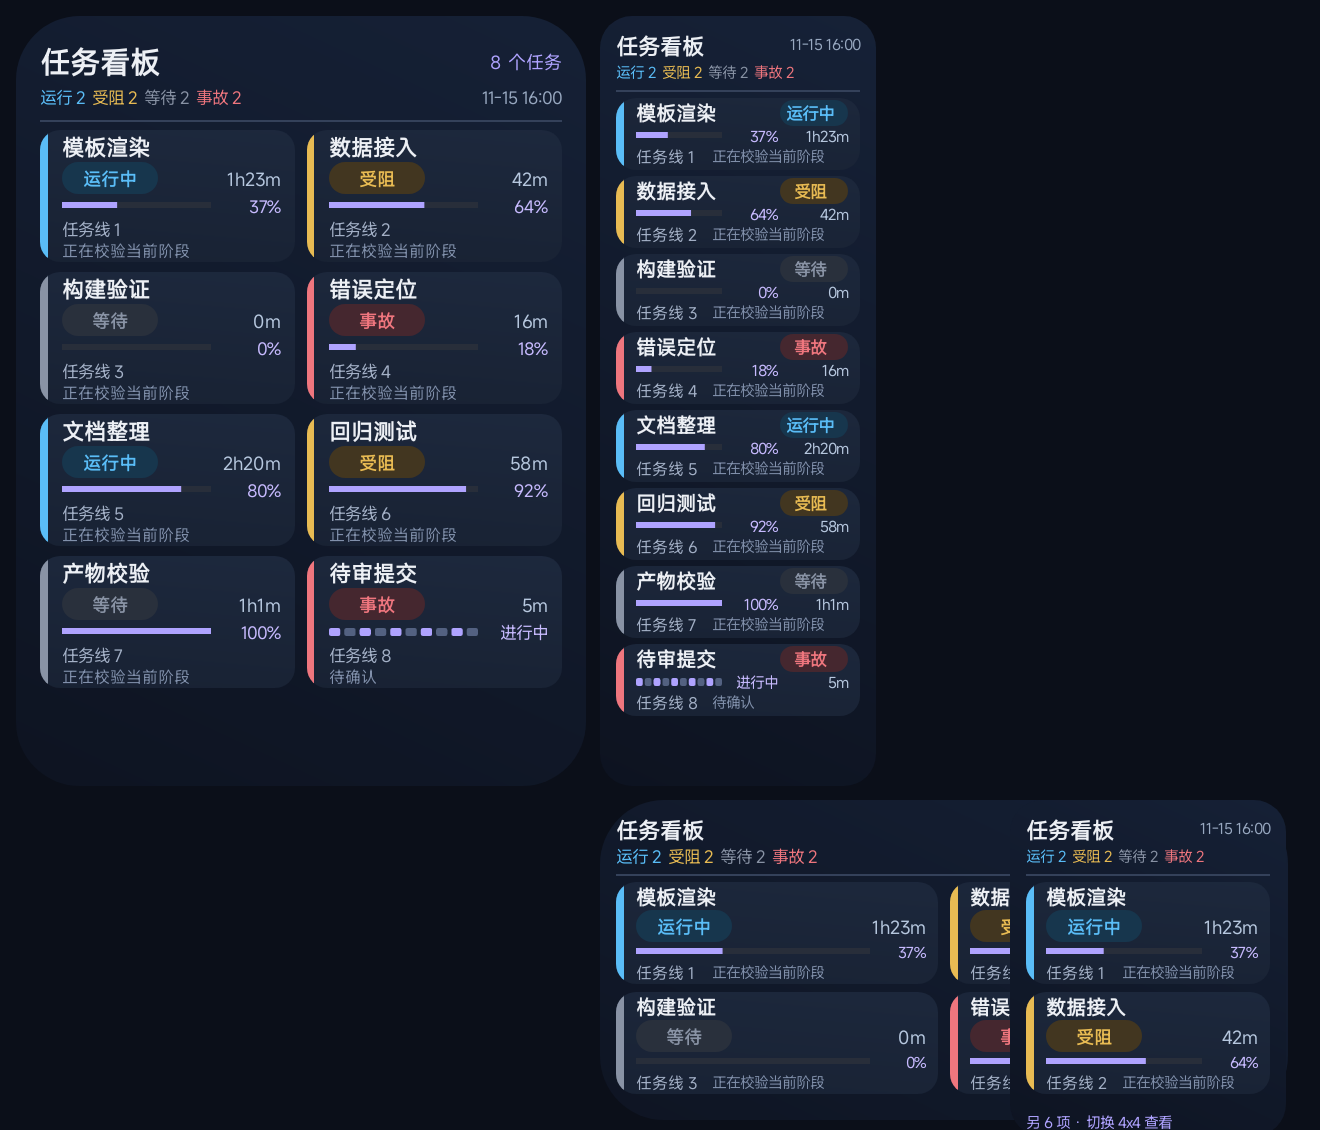
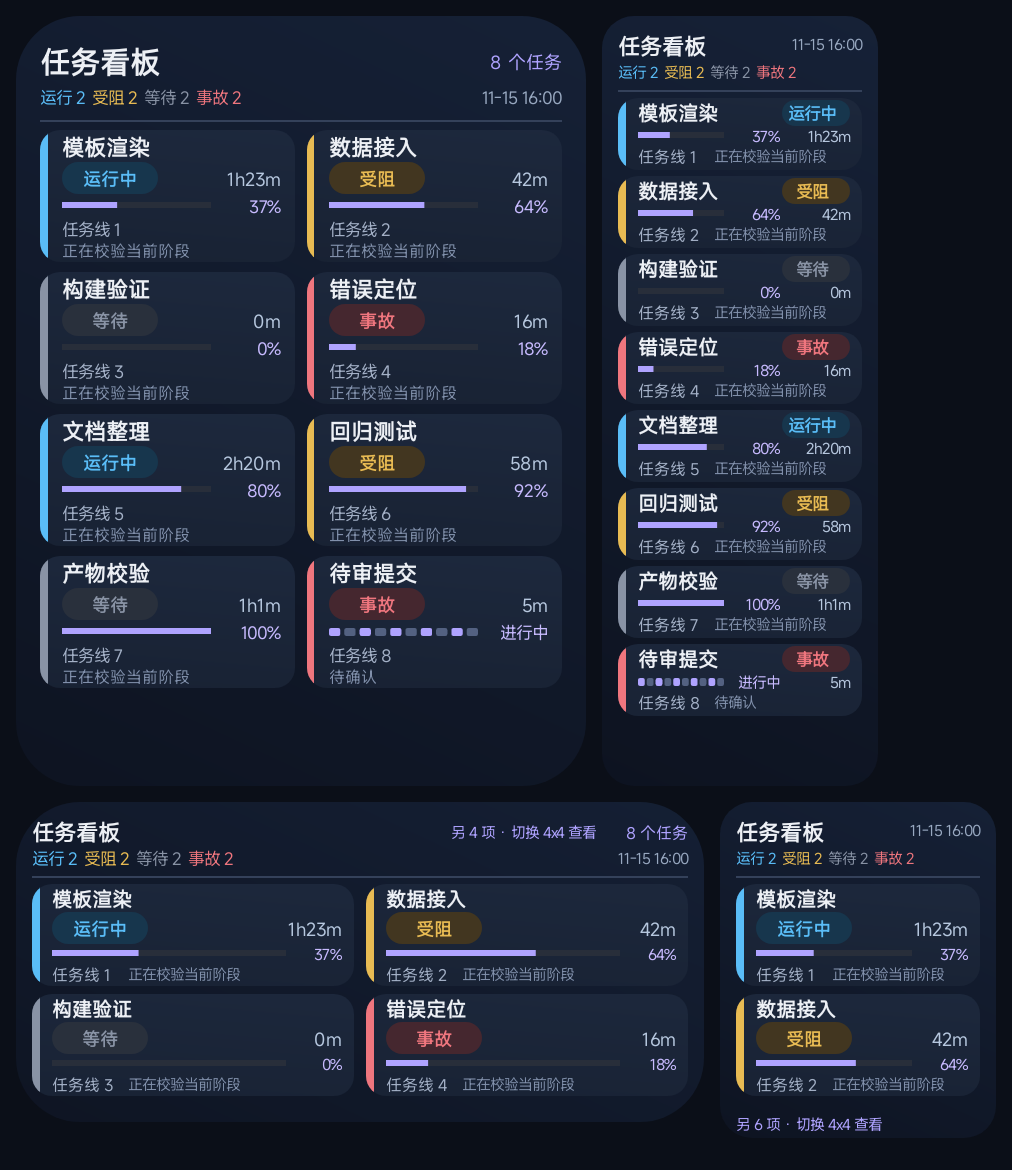
docs(kanban): 保存同源CI与交付核验 修正自检拼图 [skip ci]

diff --git a/qa/kanban-v2/DELIVERY.md b/qa/kanban-v2/DELIVERY.md
@@ -1,0 +1,47 @@
+# 0.3.10 / code 28 交付核验
+
+包名：com.litewidget.app
+APK：/storage/emulated/0/Documents/lite-widget-0.3.10-kanban.apk
+字节数：1071062
+SHA256：71225da7f4daebf59d421bf15ec4f8376d1cf357f377b61f684e05341751e5b5
+签名证书 SHA256：9f4fbf1cb2ad703eb1b1035115f31658c75f6de93853add8076a8e7339fda105
+已验证与 lite-widget-0.3.9-kanban-ks3.apk 证书完全相同。未卸载、未清数据、未安装；不把签名一致冒充已经成功覆盖安装。
+
+## 同源与门禁
+
+APK 的精确源码提交：a2bf4a4eff42fd9c6f5ac794f7283996c60581ea
+CI： https://github.com/lantianhcgp/lite-widget/actions/runs/43710660862
+run_attempt：1，conclusion=success。
+APK artifact id：14159884737；测试/图 artifact id：14160482150。
+API readback -> ZIP CRC/digest -> APK ZIP -> manifest 二进制 XML -> assets 全结构比对 -> JUnit XML全方法比对 -> Canvas像素报告逐值重算 -> apksigner 验签，均通过。delivery.json 是实际校验结果，不是示例。
+
+- Python 55/55（原39项+新增16项），generator --check 通过。
+- 主机 JVM 22/22（数据、规格、展示）。
+- CI JVM 27/27：数据12、展示5、规格5、原生Canvas4、真实MCP socket1；零失败、零错误、零跳过。ci-junit-results/ 保留原始 XML。
+- CI native Canvas：4规范尺寸+5窄宿主，共9图像素门通过；ci-native-canvas/ 同时保留空/部分任务原始图，共16张。本地重算报告与 CI pixel-checks.json 全字段全值相同。
+- precheck 语法/冲突通过；真正 Android SDK 编译由 CI 通过。
+- SPEC 唯一阻塞修复后复审通过，QUALITY=APPROVED。
+- 所有基线测试整文件逐字节保留，未删/弱化。
+- 聚合器 repo与 ~/.hermes/scripts/ 两份逐字节同步，见 README.md 的 SHA256；本轮没有推真实数据，没有定时刷新。
+
+## 改动
+
+1. 每卡四态中文胶囊：运行中（蓝）、受阻（琥珀）、等待（灰）、事故（红）；4px 左侧色轨、渐变底、层次化信息。
+2. 未知进度：静态分段条+“进行中”；已知进度仍按真实数值填充。新增 progressLabel 不把0.01/99.99误报0/100，旧percent兼容。
+3. 头部标题、四色计数、MM-DD HH:mm 更新时间；少量任务空卡行折叠。
+4. 可选 elapsed 分钟来自 keeper start/last_seen；0m/1h23m格式，缺失不编造；schema向后兼容。
+5. 四安全尺寸不变：4x4/2x4八项，4x2四项，2x2两项；禁止4x1。无动画、无新权限、不改引擎、不改手动 --push/loopback 边界。
+
+## 图像与装机边界
+
+手机现有0.3.9上隔离原生Canvas夹具（含elapsed）见 device-canvas-fixture/。四尺寸拼图只排布原始PNG，没有合成替代组件；最后目检发现的重叠已修并复看。/storage/emulated/0/Documents/lite-widget-看板视觉升级-自检.png 是完整无重叠版本。所有任务内容都是测试夹具，不是真实看板任务。
+
+新0.3.10自身CI原生Canvas图见 ci-native-canvas/（这里无elapsed字段，确认缺失保持空）。已逐卡目检主4x4、窄2x4、2x2、负一屏4x2和三项任务图，状态可见；不把CI或预览等同于桌面装机验收。
+
+装机归发起方。覆盖安装不会自动覆盖已有 task-kanban 模板（此为保留用户数据的旧行为，原测试仍通过）。装后发起方需：
+1. MCP 备份原 widgets/task-kanban/manifest.json 与 widget.json；不删旧数据。
+2. 显式将本提交 assets/templates/task-kanban/ 两份 JSON 写到同一路径。widget.json 用紧凑JSON约182539字节，小于单次256KiB；写完 fs_read 与原结构全等比对。
+3. 手动运行 scripts/kanban_build.py --push（私有映射和token沿用本机，凭据不入仓），读回真实看板。
+4. widget_reload / render，逐卡放大自检后截图给用户。无额外定时器、无自动抓前台。
+
+本证据提交仅更新图像/报告，产品代码、测试、schema、模板、构建配置保持与上述CI精确源码提交一致，不借文档提交替换已核验APK。

diff --git a/qa/kanban-v2/README.md b/qa/kanban-v2/README.md
@@ -25,7 +25,9 @@ Fixed point: 68d3aa945b44393ec1f003a96ad3a9cce6ab0c4c.
 - palette-red.log -> palette-green.log: requested running blue instead of former green.
 - partial-red.log -> partial-green.log: inactive pairs collapse with their slots.
 - precise-progress-red.log -> precise-progress-green.log: 0.01% / 99.99% do not display falsely as 0.0% / 100.0%; legacy percent remains compatible.
-- elapsed child evidence: elapsed-red.log / elapsed-green.log (where present); final 55-test integration includes elapsed.
+- elapsed child evidence: elapsed-red.log -> elapsed-green.log; final 55-test integration includes elapsed.
+
+Delivery-verifier correction evidence: expected numbers were initially typed as 28 JVM tests and 5 pixel images. The real downloaded XML declared and executed 27 tests (12+5+5+4+1), and render-manifest declares 9 images (4 canonical + 5 hosts). Initial assertions correctly blocked publication. Source-method-to-XML exact set equality, no skipped/error/failure, and full manifest-to-report exact names replaced the guessed minima. Final verification passed, saved in delivery.json; no product test/threshold was removed or weakened. This was a local fetch-verifier mistake, not an incomplete CI run.
 
 ## Reviews
 
@@ -35,6 +37,6 @@ QUALITY integrated read-only review 19:44:40 CST: APPROVED, zero must-fix; curre
 
 ## Evidence boundary
 
-Fixture tasks are synthetic and explicitly labelled 自检; these are actual native Canvas PNGs, not a browser/Pillow recreation of the UI. Pixel montage only arranges original PNGs. Existing App 0.3.9 was used to exercise the unchanged Renderer. New package's own native Canvas and live socket tests run separately in CI. This is NOT proof of new-version desktop installation. Device installation is exclusively the requesting party's step; no install, clear-data, force-start, reload of real widget, real-board push, new timer/permission, master merge or release was performed here.
+Fixture tasks are synthetic and explicitly labelled in this report as 自检; these are actual native Canvas PNGs, not a browser/Pillow recreation of the UI. Pixel montage only arranges original PNGs. Existing App 0.3.9 was used to exercise the unchanged Renderer. New package's own native Canvas and live socket tests run separately in CI. This is NOT proof of new-version desktop installation. Device installation is exclusively the requesting party's step; no install, clear-data, force-start, reload of real widget, real-board push, new timer/permission, master merge or release was performed here.
 
 Existing task-kanban files are not overwritten by seeding on overlay upgrade. Requesting party should back them up, explicitly copy updated manifest/widget via MCP after installation, read back, then manually --push/reload and capture actual desktop.
